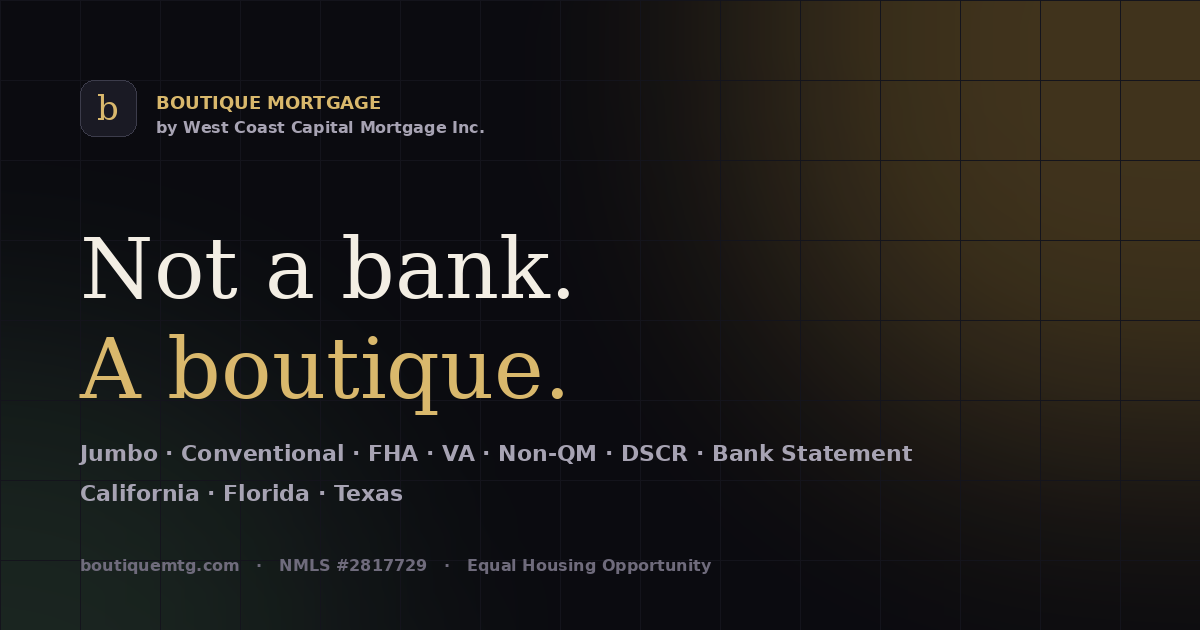
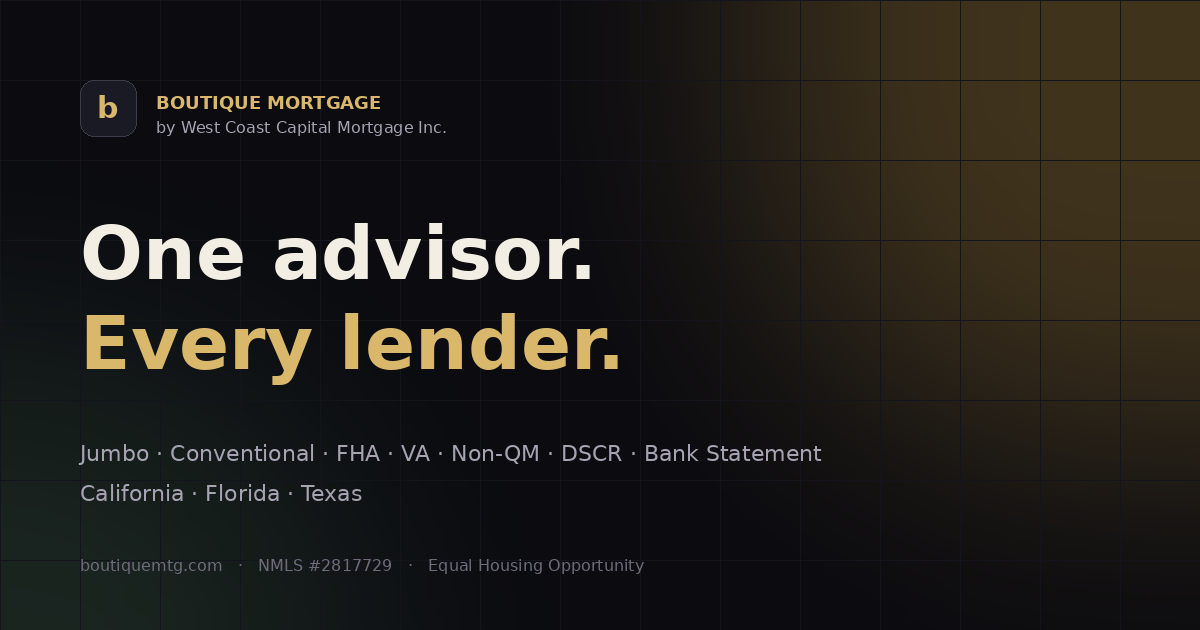
Switch display font to Syne and rewrite the hero headline
Replace the Fraunces serif (and all italic accents) with Syne, a modern
wide grotesk, and retune heading sizes for its width. The hero now reads
"One advisor. Every lender. Your mortgage, done right." in EN/ES/RU/ZH;
the social preview image is regenerated to match.

Claude-Session: https://claude.ai/code/session_01L62Hdud4DiPBRZaCxTW3rs

diff --git a/assets/css/styles.css b/assets/css/styles.css
@@ -18,7 +18,7 @@
   --sage: #9fb8a4;
   --danger: #e07a6a;
 
-  --font-display: "Fraunces", "Iowan Old Style", "Palatino Linotype", Georgia, serif;
+  --font-display: "Syne", "Manrope", system-ui, sans-serif;
   --font-body: "Manrope", "Inter", system-ui, -apple-system, "Segoe UI", sans-serif;
 
   --radius: 20px;
@@ -43,7 +43,7 @@ body {
 img, svg { display: block; max-width: 100%; }
 a { color: inherit; text-decoration: none; }
 button { font: inherit; color: inherit; }
-h1, h2, h3, h4 { margin: 0; font-family: var(--font-display); font-weight: 400; line-height: 1.05; letter-spacing: -0.015em; }
+h1, h2, h3, h4 { margin: 0; font-family: var(--font-display); font-weight: 700; line-height: 1.04; letter-spacing: -0.02em; }
 p { margin: 0; }
 ul { margin: 0; padding: 0; list-style: none; }
 ::selection { background: var(--gold); color: var(--ink); }
@@ -77,11 +77,11 @@ body.has-pointer .cursor-glow { opacity: 1; }
 
 .section { padding: clamp(80px, 11vw, 150px) 0; position: relative; }
 .section-head { max-width: 760px; margin-bottom: clamp(40px, 6vw, 72px); }
-.section-head h2 { font-size: clamp(36px, 5vw, 64px); margin-top: 18px; }
+.section-head h2 { font-size: clamp(30px, 4vw, 54px); margin-top: 18px; }
 .section-head p { margin-top: 20px; color: var(--muted); font-size: clamp(17px, 1.4vw, 20px); max-width: 60ch; }
 .section-head.center { margin-inline: auto; text-align: center; }
 .section-head.center p { margin-inline: auto; }
-em.accent { font-style: italic; color: var(--gold-2); font-variation-settings: "opsz" 144, "SOFT" 60; }
+em.accent { font-style: normal; color: var(--gold-2); }
 
 /* ---------- buttons ---------- */
 .btn {
@@ -117,7 +117,7 @@ em.accent { font-style: italic; color: var(--gold-2); font-variation-settings: "
 }
 .nav.scrolled { background: rgba(11, 11, 16, 0.72); backdrop-filter: blur(18px) saturate(140%); -webkit-backdrop-filter: blur(18px) saturate(140%); border-color: var(--line); }
 .nav-inner { display: flex; align-items: center; justify-content: space-between; gap: 24px; height: 76px; }
-.brand { display: inline-flex; align-items: center; gap: 12px; font-family: var(--font-display); font-size: 22px; letter-spacing: 0.01em; }
+.brand { display: inline-flex; align-items: center; gap: 12px; font-family: var(--font-display); font-size: 20px; font-weight: 800; letter-spacing: -0.01em; }
 .brand .mark { width: 36px; height: 36px; border-radius: 10px; background: var(--ink-3); display: grid; place-items: center; border: 1px solid var(--line-strong); }
 .brand .mark svg { width: 20px; height: 20px; }
 .brand small { display: block; font-family: var(--font-body); font-size: 10px; letter-spacing: 0.22em; text-transform: uppercase; color: var(--muted); font-weight: 700; margin-top: 2px; }
@@ -141,7 +141,7 @@ em.accent { font-style: italic; color: var(--gold-2); font-variation-settings: "
   opacity: 0; visibility: hidden; transition: opacity 0.4s var(--ease), visibility 0.4s;
 }
 .mobile-menu.open { opacity: 1; visibility: visible; }
-.mobile-menu a { font-family: var(--font-display); font-size: clamp(32px, 9vw, 44px); padding: 8px 0; transform: translateY(14px); opacity: 0; transition: transform 0.6s var(--ease), opacity 0.6s; }
+.mobile-menu a { font-family: var(--font-display); font-size: clamp(28px, 8vw, 40px); font-weight: 700; padding: 8px 0; transform: translateY(14px); opacity: 0; transition: transform 0.6s var(--ease), opacity 0.6s; }
 .mobile-menu.open a { transform: none; opacity: 1; }
 .mobile-menu a:nth-child(2) { transition-delay: 0.05s } .mobile-menu a:nth-child(3) { transition-delay: 0.1s } .mobile-menu a:nth-child(4) { transition-delay: 0.15s } .mobile-menu a:nth-child(5) { transition-delay: 0.2s } .mobile-menu a:nth-child(6) { transition-delay: 0.25s }
 .mobile-menu .btn { margin-top: 24px; font-family: var(--font-body); font-size: 15px; }
@@ -162,7 +162,7 @@ em.accent { font-style: italic; color: var(--gold-2); font-variation-settings: "
   -webkit-mask-image: radial-gradient(ellipse at 50% 40%, #000 20%, transparent 70%);
 }
 .hero-inner { display: grid; grid-template-columns: 1.15fr 0.85fr; gap: clamp(40px, 6vw, 90px); align-items: center; }
-.hero h1 { font-size: clamp(46px, 7vw, 104px); margin-top: 26px; font-variation-settings: "opsz" 144; }
+.hero h1 { font-size: clamp(34px, 4.5vw, 66px); margin-top: 26px; font-weight: 700; letter-spacing: -0.025em; line-height: 1.04; }
 .hero h1 .line { display: block; overflow: hidden; }
 .hero h1 .line > span { display: inline-block; transform: translateY(110%); animation: rise 1.2s var(--ease) forwards; }
 .hero h1 .line:nth-child(2) > span { animation-delay: 0.12s; }
@@ -197,7 +197,7 @@ em.accent { font-style: italic; color: var(--gold-2); font-variation-settings: "
 .scard.pos-out { opacity: 0; z-index: 0; transform: translate(calc(-50% - 40px), calc(-50% - 60px)) scale(1.04) rotate(-4deg); }
 .scard-top { display: flex; justify-content: space-between; align-items: center; font-size: 11px; letter-spacing: 0.2em; text-transform: uppercase; font-weight: 700; color: var(--gold); }
 .scard-top .pill { padding: 5px 10px; border-radius: 999px; background: rgba(217,184,108,0.14); color: var(--gold-2); letter-spacing: 0.08em; font-size: 11px; }
-.scard h3 { font-size: 30px; margin-top: 16px; }
+.scard h3 { font-size: 26px; margin-top: 16px; }
 .scard h3 small { display: block; font-family: var(--font-body); font-size: 14px; color: var(--muted); margin-top: 4px; letter-spacing: 0; }
 .scard dl { display: grid; grid-template-columns: 1fr 1fr; gap: 14px 18px; margin: 22px 0 0; }
 .scard dt { font-size: 11px; letter-spacing: 0.14em; text-transform: uppercase; color: var(--muted-2); font-weight: 700; }
@@ -213,7 +213,7 @@ em.accent { font-style: italic; color: var(--gold-2); font-variation-settings: "
 .marquee { border-block: 1px solid var(--line); padding: 20px 0; overflow: hidden; background: var(--ink-2); }
 .marquee-track { display: flex; gap: 0; width: max-content; animation: marquee 40s linear infinite; }
 .marquee:hover .marquee-track { animation-play-state: paused; }
-.marquee-track span { display: inline-flex; align-items: center; gap: 24px; padding-right: 24px; font-family: var(--font-display); font-size: 20px; color: var(--cream-2); white-space: nowrap; }
+.marquee-track span { display: inline-flex; align-items: center; gap: 24px; padding-right: 24px; font-family: var(--font-display); font-size: 17px; font-weight: 600; color: var(--cream-2); white-space: nowrap; }
 .marquee-track span::after { content: "✦"; color: var(--gold); font-size: 12px; }
 @keyframes marquee { to { transform: translateX(-50%); } }
 
@@ -235,7 +235,7 @@ em.accent { font-style: italic; color: var(--gold-2); font-variation-settings: "
 }
 .pillar:hover { border-color: var(--line-strong); transform: translateY(-4px); }
 .pillar:hover::before { opacity: 1; }
-.pillar .num { font-family: var(--font-display); font-size: 56px; line-height: 1; color: rgba(217,184,108,0.35); font-style: italic; }
+.pillar .num { font-family: var(--font-display); font-size: 52px; line-height: 1; color: rgba(217,184,108,0.35); font-weight: 800; }
 .pillar h3 { font-size: 28px; margin-top: 22px; }
 .pillar p { margin-top: 14px; color: var(--muted); font-size: 16px; }
 
@@ -266,7 +266,7 @@ em.accent { font-style: italic; color: var(--gold-2); font-variation-settings: "
 .steps { display: grid; grid-template-columns: repeat(4, 1fr); gap: 0; position: relative; counter-reset: step; }
 .steps::before { content: ""; position: absolute; left: 0; right: 0; top: 24px; height: 1px; background: linear-gradient(90deg, transparent, var(--line-strong) 10%, var(--line-strong) 90%, transparent); }
 .step { position: relative; padding: 0 28px 0 0; }
-.step .dot { width: 48px; height: 48px; border-radius: 50%; border: 1px solid var(--line-strong); background: var(--ink); display: grid; place-items: center; font-family: var(--font-display); font-size: 18px; color: var(--gold); position: relative; z-index: 1; transition: background 0.4s, color 0.4s, transform 0.5s var(--ease); }
+.step .dot { width: 48px; height: 48px; border-radius: 50%; border: 1px solid var(--line-strong); background: var(--ink); display: grid; place-items: center; font-family: var(--font-display); font-weight: 700; font-size: 16px; color: var(--gold); position: relative; z-index: 1; transition: background 0.4s, color 0.4s, transform 0.5s var(--ease); }
 .step:hover .dot { background: var(--gold); color: var(--ink); transform: scale(1.08); }
 .step h3 { font-size: 26px; margin-top: 26px; }
 .step p { margin-top: 12px; color: var(--muted); font-size: 15px; }
@@ -274,7 +274,7 @@ em.accent { font-style: italic; color: var(--gold-2); font-variation-settings: "
 
 /* ---------- stats ---------- */
 .stats { display: grid; grid-template-columns: repeat(4, 1fr); gap: 20px; margin-top: clamp(60px, 8vw, 100px); padding-top: clamp(40px, 5vw, 60px); border-top: 1px solid var(--line); }
-.stat b { display: block; font-family: var(--font-display); font-size: clamp(40px, 5vw, 64px); line-height: 1; font-weight: 300; }
+.stat b { display: block; font-family: var(--font-display); font-size: clamp(40px, 5vw, 60px); line-height: 1; font-weight: 600; }
 .stat b sup { font-size: 0.4em; color: var(--gold); vertical-align: top; margin-left: 2px; }
 .stat span { display: block; margin-top: 10px; font-size: 14px; color: var(--muted); }
 
@@ -282,7 +282,7 @@ em.accent { font-style: italic; color: var(--gold-2); font-variation-settings: "
 .estimator { display: grid; grid-template-columns: 1fr 1fr; gap: 24px; border-radius: 28px; overflow: hidden; border: 1px solid rgba(11,11,16,0.1); background: #fff; }
 .est-form { padding: clamp(28px, 4vw, 48px); display: grid; gap: 22px; }
 .field label { display: flex; justify-content: space-between; align-items: baseline; font-size: 13px; font-weight: 700; letter-spacing: 0.06em; text-transform: uppercase; color: #5a5664; }
-.field label output { font-family: var(--font-display); font-size: 22px; color: var(--ink); text-transform: none; letter-spacing: 0; }
+.field label output { font-family: var(--font-display); font-size: 20px; font-weight: 700; color: var(--ink); text-transform: none; letter-spacing: 0; }
 .field input[type="range"] { -webkit-appearance: none; appearance: none; width: 100%; height: 4px; margin: 14px 0 0; border-radius: 2px; background: linear-gradient(90deg, var(--gold-deep) var(--p, 50%), #e5e0d4 var(--p, 50%)); outline: none; }
 .field input[type="range"]::-webkit-slider-thumb { -webkit-appearance: none; width: 22px; height: 22px; border-radius: 50%; background: var(--ink); border: 3px solid #fff; box-shadow: 0 2px 10px rgba(0,0,0,0.25); cursor: grab; transition: transform 0.2s; }
 .field input[type="range"]::-webkit-slider-thumb:hover { transform: scale(1.1); }
@@ -297,7 +297,7 @@ em.accent { font-style: italic; color: var(--gold-2); font-variation-settings: "
 .est-result { background: var(--ink); color: var(--cream); padding: clamp(28px, 4vw, 48px); display: flex; flex-direction: column; justify-content: space-between; position: relative; overflow: hidden; }
 .est-result::before { content: ""; position: absolute; width: 420px; height: 420px; right: -160px; top: -160px; border-radius: 50%; background: radial-gradient(circle, rgba(217,184,108,0.25), transparent 70%); }
 .est-main small { font-size: 12px; letter-spacing: 0.2em; text-transform: uppercase; color: var(--gold); font-weight: 700; }
-.est-main .big { font-family: var(--font-display); font-size: clamp(52px, 6vw, 88px); line-height: 1; margin-top: 12px; font-weight: 300; font-variant-numeric: tabular-nums; }
+.est-main .big { font-family: var(--font-display); font-size: clamp(48px, 5.4vw, 76px); line-height: 1; margin-top: 12px; font-weight: 700; font-variant-numeric: tabular-nums; }
 .est-main .big span { font-size: 0.35em; color: var(--muted); font-family: var(--font-body); font-weight: 600; margin-left: 6px; }
 .est-break { margin-top: 30px; display: grid; gap: 12px; }
 .est-break div { display: flex; justify-content: space-between; font-size: 15px; padding-bottom: 12px; border-bottom: 1px solid var(--line); color: var(--muted); }
@@ -314,7 +314,7 @@ em.accent { font-style: italic; color: var(--gold-2); font-variation-settings: "
 .markets { display: grid; grid-template-columns: repeat(3, 1fr); gap: 18px; }
 .market { padding: 32px 30px; border-radius: var(--radius); border: 1px solid var(--line); background: var(--ink-2); position: relative; overflow: hidden; transition: transform 0.6s var(--ease), border-color 0.4s; }
 .market:hover { transform: translateY(-4px); border-color: var(--line-strong); }
-.market .abbr { font-family: var(--font-display); font-size: 72px; line-height: 0.9; color: rgba(217,184,108,0.18); position: absolute; right: 20px; top: 14px; font-style: italic; }
+.market .abbr { font-family: var(--font-display); font-size: 72px; line-height: 0.9; color: rgba(217,184,108,0.18); position: absolute; right: 20px; top: 14px; font-weight: 800; }
 .market h3 { font-size: 28px; }
 .market p { margin-top: 12px; color: var(--muted); font-size: 15px; }
 .market ul { margin-top: 18px; display: flex; flex-wrap: wrap; gap: 8px; }
@@ -323,14 +323,14 @@ em.accent { font-style: italic; color: var(--gold-2); font-variation-settings: "
 /* ---------- founder ---------- */
 .founder { display: grid; grid-template-columns: 0.9fr 1.1fr; gap: clamp(40px, 6vw, 90px); align-items: center; }
 .founder-visual { position: relative; aspect-ratio: 4 / 5; border-radius: 28px; overflow: hidden; background: linear-gradient(160deg, #1b1a26, #0e0e14); border: 1px solid var(--line); display: grid; place-items: center; }
-.founder-visual .initials { font-family: var(--font-display); font-size: clamp(120px, 18vw, 220px); line-height: 1; color: transparent; -webkit-text-stroke: 1px rgba(217,184,108,0.6); font-style: italic; }
+.founder-visual .initials { font-family: var(--font-display); font-size: clamp(120px, 18vw, 220px); line-height: 1; color: transparent; -webkit-text-stroke: 1px rgba(217,184,108,0.6); font-weight: 800; }
 .founder-visual .ring { position: absolute; inset: 14%; border-radius: 50%; border: 1px solid rgba(217,184,108,0.25); animation: spin 40s linear infinite; }
 .founder-visual .ring::after { content: ""; position: absolute; width: 10px; height: 10px; border-radius: 50%; background: var(--gold); left: 50%; top: -5px; transform: translateX(-50%); box-shadow: 0 0 20px var(--gold); }
 @keyframes spin { to { transform: rotate(360deg); } }
 .founder-visual .badge { position: absolute; left: 20px; bottom: 20px; right: 20px; padding: 16px 18px; border-radius: 16px; background: rgba(11,11,16,0.7); backdrop-filter: blur(10px); border: 1px solid var(--line-strong); font-size: 13px; color: var(--muted); display: flex; justify-content: space-between; gap: 12px; align-items: center; }
 .founder-visual .badge b { color: var(--cream); display: block; font-size: 15px; }
 .founder-visual .badge .stars { color: var(--gold); letter-spacing: 2px; white-space: nowrap; }
-.founder h2 { font-size: clamp(34px, 4.6vw, 58px); margin-top: 18px; }
+.founder h2 { font-size: clamp(28px, 3.6vw, 48px); margin-top: 18px; }
 .founder .lead { margin-top: 22px; font-size: 18px; color: var(--cream-2); }
 .founder p + p { margin-top: 16px; color: var(--muted); }
 .founder .creds { margin-top: 28px; display: grid; grid-template-columns: 1fr 1fr; gap: 14px; }
@@ -340,7 +340,7 @@ em.accent { font-style: italic; color: var(--gold-2); font-variation-settings: "
 
 /* ---------- contact ---------- */
 .contact { display: grid; grid-template-columns: 0.9fr 1.1fr; gap: clamp(40px, 6vw, 90px); }
-.contact h2 { font-size: clamp(38px, 5.5vw, 72px); margin-top: 18px; }
+.contact h2 { font-size: clamp(30px, 4vw, 54px); margin-top: 18px; }
 .contact .intro { margin-top: 22px; color: var(--muted); font-size: 18px; max-width: 46ch; }
 .contact-cards { margin-top: 36px; display: grid; gap: 12px; }
 .ccard { display: flex; justify-content: space-between; align-items: center; gap: 16px; padding: 18px 20px; border-radius: 16px; border: 1px solid var(--line); background: var(--ink-2); transition: border-color 0.3s, transform 0.5s var(--ease); }
@@ -401,7 +401,7 @@ em.accent { font-style: italic; color: var(--gold-2); font-variation-settings: "
 .page a { color: var(--gold-2); text-decoration: underline; text-underline-offset: 3px; }
 .page .lead { font-size: 20px; color: var(--cream-2); margin-top: 24px; }
 .center-page { min-height: 100svh; display: grid; place-items: center; text-align: center; padding: 120px var(--gutter); }
-.center-page h1 { font-size: clamp(60px, 14vw, 160px); line-height: 0.9; font-style: italic; color: transparent; -webkit-text-stroke: 1px var(--gold); }
+.center-page h1 { font-size: clamp(60px, 14vw, 160px); line-height: 0.9; font-weight: 800; color: transparent; -webkit-text-stroke: 1px var(--gold); }
 .center-page p { margin-top: 24px; color: var(--muted); font-size: 18px; }
 
 /* ---------- responsive ---------- */
@@ -467,7 +467,7 @@ em.accent { font-style: italic; color: var(--gold-2); font-variation-settings: "
 .rate-card { padding: 22px 22px 20px; border-radius: 18px; border: 1px solid var(--line); background: linear-gradient(180deg, rgba(255,255,255,0.05), rgba(255,255,255,0.015)); position: relative; overflow: hidden; transition: transform 0.5s var(--ease), border-color 0.3s; }
 .rate-card:hover { transform: translateY(-3px); border-color: var(--line-strong); }
 .rate-card small { display: block; font-size: 12px; letter-spacing: 0.1em; text-transform: uppercase; color: var(--muted); font-weight: 700; min-height: 2.6em; }
-.rate-card b { display: block; font-family: var(--font-display); font-size: 44px; font-weight: 300; line-height: 1; margin-top: 10px; font-variant-numeric: tabular-nums; }
+.rate-card b { display: block; font-family: var(--font-display); font-size: 38px; font-weight: 700; line-height: 1; margin-top: 10px; font-variant-numeric: tabular-nums; }
 .rate-card b i { font-style: normal; font-size: 0.45em; color: var(--gold); margin-left: 2px; }
 .rate-card .use { margin-top: 12px; font-size: 12px; color: var(--muted-2); }
 .rate-card button { margin-top: 12px; background: none; border: 0; padding: 0; color: var(--gold-2); font-size: 12px; font-weight: 700; cursor: pointer; letter-spacing: 0.04em; }
@@ -492,7 +492,7 @@ em.accent { font-style: italic; color: var(--gold-2); font-variation-settings: "
 
 /* concierge */
 .concierge-grid { display: grid; grid-template-columns: 0.95fr 1.05fr; gap: clamp(36px, 6vw, 80px); align-items: start; }
-.concierge-grid h2 { font-size: clamp(34px, 4.6vw, 58px); margin-top: 18px; }
+.concierge-grid h2 { font-size: clamp(28px, 3.6vw, 48px); margin-top: 18px; }
 .concierge-lead { margin-top: 22px; color: var(--muted); font-size: 18px; }
 .concierge-points { margin-top: 22px; display: grid; gap: 10px; }
 .concierge-points li { padding-left: 26px; position: relative; color: var(--cream-2); font-size: 15px; }
@@ -505,7 +505,7 @@ em.accent { font-style: italic; color: var(--gold-2); font-variation-settings: "
 .chat-head { display: flex; align-items: center; gap: 14px; padding: 18px 20px; border-bottom: 1px solid var(--line); }
 .chat-head b { display: block; font-size: 15px; }
 .chat-head small { display: block; font-size: 12px; color: var(--muted); margin-top: 2px; }
-.chat-avatar { width: 40px; height: 40px; border-radius: 12px; background: var(--gold); color: var(--ink); display: grid; place-items: center; font-family: var(--font-display); font-size: 20px; font-style: italic; }
+.chat-avatar { width: 40px; height: 40px; border-radius: 12px; background: var(--gold); color: var(--ink); display: grid; place-items: center; font-family: var(--font-display); font-size: 18px; font-weight: 800; }
 .chat-badge { margin-left: auto; font-size: 11px; letter-spacing: 0.1em; text-transform: uppercase; color: var(--muted-2); font-weight: 700; border: 1px solid var(--line); padding: 5px 9px; border-radius: 999px; }
 .chat-log { flex: 1; padding: 20px; overflow-y: auto; display: flex; flex-direction: column; gap: 12px; max-height: 480px; scroll-behavior: smooth; }
 .msg { max-width: 86%; padding: 13px 16px; border-radius: 16px; font-size: 15px; line-height: 1.55; white-space: pre-wrap; word-wrap: break-word; animation: msgIn 0.4s var(--ease); }
@@ -527,7 +527,7 @@ em.accent { font-style: italic; color: var(--gold-2); font-variation-settings: "
 .chat-foot { padding: 0 20px 14px; font-size: 11px; color: var(--muted-2); }
 
 .chat-fab { position: fixed; right: 20px; bottom: 20px; z-index: 45; display: inline-flex; align-items: center; gap: 10px; padding: 8px 16px 8px 8px; border-radius: 999px; border: 1px solid var(--line-strong); background: rgba(18,18,26,0.9); backdrop-filter: blur(12px); color: var(--cream); cursor: pointer; box-shadow: 0 20px 50px -20px rgba(0,0,0,0.8); transition: transform 0.4s var(--ease), opacity 0.4s; }
-.chat-fab span { width: 36px; height: 36px; border-radius: 50%; background: var(--gold); color: var(--ink); display: grid; place-items: center; font-family: var(--font-display); font-style: italic; font-size: 18px; }
+.chat-fab span { width: 36px; height: 36px; border-radius: 50%; background: var(--gold); color: var(--ink); display: grid; place-items: center; font-family: var(--font-display); font-weight: 800; font-size: 16px; }
 .chat-fab em { font-style: normal; font-size: 13px; font-weight: 700; }
 .chat-fab:hover { transform: translateY(-2px); }
 .chat-fab.hide { opacity: 0; pointer-events: none; transform: translateY(10px); }
@@ -547,7 +547,7 @@ em.accent { font-style: italic; color: var(--gold-2); font-variation-settings: "
 /* consent banner */
 .consent-banner { position: fixed; left: 20px; right: 20px; bottom: 20px; z-index: 70; margin-inline: auto; max-width: 820px; display: flex; gap: 20px; align-items: center; justify-content: space-between; flex-wrap: wrap; padding: 18px 22px; border-radius: 18px; border: 1px solid var(--line-strong); background: rgba(18,18,26,0.95); backdrop-filter: blur(16px); box-shadow: 0 30px 80px -30px rgba(0,0,0,0.9); transform: translateY(20px); opacity: 0; transition: transform 0.5s var(--ease), opacity 0.5s; }
 .consent-banner.show { transform: none; opacity: 1; }
-.consent-banner b { display: block; font-family: var(--font-display); font-size: 20px; }
+.consent-banner b { display: block; font-family: var(--font-display); font-size: 17px; font-weight: 700; }
 .consent-banner p { font-size: 13px; color: var(--muted); margin-top: 4px; max-width: 54ch; }
 .consent-banner p a { color: var(--gold-2); }
 .consent-actions { display: flex; gap: 8px; flex-wrap: wrap; }

diff --git a/index.html b/index.html
@@ -9,7 +9,7 @@
 <meta name="theme-color" content="#0b0b10">
 <meta property="og:type" content="website">
 <meta property="og:site_name" content="Boutique Mortgage">
-<meta property="og:title" content="Boutique Mortgage — a private-client mortgage experience">
+<meta property="og:title" content="Boutique Mortgage — one advisor, every lender">
 <meta property="og:description" content="One advisor. Structure before paperwork. Access to a wide lender marketplace. West Coast Capital Mortgage Inc. · NMLS #2817729 · CA · FL · TX.">
 <meta property="og:url" content="https://boutiquemtg.com/">
 <meta property="og:image" content="https://boutiquemtg.com/assets/img/og-image.png">
@@ -20,7 +20,7 @@
 <link rel="icon" href="/assets/favicon.svg" type="image/svg+xml">
 <link rel="preconnect" href="https://fonts.googleapis.com">
 <link rel="preconnect" href="https://fonts.gstatic.com" crossorigin>
-<link href="https://fonts.googleapis.com/css2?family=Fraunces:ital,opsz,wght@0,9..144,300;0,9..144,400;0,9..144,500;1,9..144,300;1,9..144,400&family=Manrope:wght@400;500;600;700;800&display=swap" rel="stylesheet">
+<link href="https://fonts.googleapis.com/css2?family=Syne:wght@500;600;700;800&family=Manrope:wght@400;500;600;700;800&display=swap" rel="stylesheet">
 <link rel="stylesheet" href="/assets/css/styles.css?v=1">
 <script>
 /* Runtime configuration — public values only. Secrets live in Netlify env vars. */
@@ -118,9 +118,9 @@ window.BQ_CONFIG = {
     <div>
       <p class="eyebrow fade-up">Private-client mortgage · CA · FL · TX</p>
       <h1>
-        <span class="line"><span>Not a bank.</span></span>
-        <span class="line"><span>A <em class="accent">boutique</em>.</span></span>
-        <span class="line"><span>Mortgage, tailored.</span></span>
+        <span class="line"><span>One advisor.</span></span>
+        <span class="line"><span><em class="accent">Every lender.</em></span></span>
+        <span class="line"><span>Your mortgage, done right.</span></span>
       </h1>
       <p class="hero-sub fade-up d1">One advisor from the first conversation to the keys. We structure the loan before the paperwork, then shop it across a wide lender marketplace — jumbo, conventional, FHA, VA, Non-QM, DSCR and bank-statement programs.</p>
       <div class="hero-actions fade-up d2">

diff --git a/assets/js/i18n.js b/assets/js/i18n.js
@@ -20,10 +20,9 @@
     "Skip to content": { es: "Saltar al contenido", ru: "К содержанию", zh: "跳到内容" },
     /* hero */
     "Private-client mortgage · CA · FL · TX": { es: "Hipotecas de cliente privado · CA · FL · TX", ru: "Ипотека для частных клиентов · CA · FL · TX", zh: "私人客户房贷 · CA · FL · TX" },
-    "Not a bank.": { es: "No somos un banco.", ru: "Не банк.", zh: "不是银行。" },
-    "A": { es: "Una", ru: "Просто", zh: "而是" },
-    "boutique": { es: "boutique", ru: "бутик", zh: "精品工作室" },
-    "Mortgage, tailored.": { es: "Hipotecas a medida.", ru: "Ипотека по мерке.", zh: "量身定制的房贷。" },
+    "One advisor.": { es: "Un solo asesor.", ru: "Один советник.", zh: "一位顾问。" },
+    "Every lender.": { es: "Todos los prestamistas.", ru: "Все кредиторы.", zh: "全市场贷款机构。" },
+    "Your mortgage, done right.": { es: "Tu hipoteca, bien hecha.", ru: "Ваша ипотека — как надо.", zh: "您的房贷，办得妥当。" },
     "One advisor from the first conversation to the keys. We structure the loan before the paperwork, then shop it across a wide lender marketplace — jumbo, conventional, FHA, VA, Non-QM, DSCR and bank-statement programs.":
       { es: "Un solo asesor desde la primera conversación hasta las llaves. Estructuramos el préstamo antes del papeleo y lo cotizamos en un amplio mercado de prestamistas: jumbo, convencional, FHA, VA, Non-QM, DSCR y programas con estados de cuenta.",
         ru: "Один советник — от первого разговора до ключей. Сначала выстраиваем структуру кредита, потом подбираем кредитора на широком рынке: jumbo, conventional, FHA, VA, Non-QM, DSCR и программы по банковским выпискам.",

diff --git a/404.html b/404.html
@@ -10,7 +10,7 @@
 <meta name="theme-color" content="#0b0b10">
 <link rel="icon" href="/assets/favicon.svg" type="image/svg+xml">
 <link rel="preconnect" href="https://fonts.googleapis.com"><link rel="preconnect" href="https://fonts.gstatic.com" crossorigin>
-<link href="https://fonts.googleapis.com/css2?family=Fraunces:ital,opsz,wght@0,9..144,300;0,9..144,400;1,9..144,300&family=Manrope:wght@400;500;600;700;800&display=swap" rel="stylesheet">
+<link href="https://fonts.googleapis.com/css2?family=Syne:wght@500;600;700;800&family=Manrope:wght@400;500;600;700;800&display=swap" rel="stylesheet">
 <link rel="stylesheet" href="/assets/css/styles.css?v=1">
 <script>window.BQ_CONFIG={SITE:"boutiquemtg.com",GTM_ID:"GTM-K2X3X454",GA4_ID:"G-GB57YWMKBH",ADS_ID:"AW-18417657219",ADS_LEAD_DESTINATION:"AW-18417657219/LiA7CPWd4eocEIPLnM5E",CLARITY_ID:"wzzlo9s35g"};</script>
 </head>

diff --git a/disclosures.html b/disclosures.html
@@ -10,7 +10,7 @@
 <meta name="theme-color" content="#0b0b10">
 <link rel="icon" href="/assets/favicon.svg" type="image/svg+xml">
 <link rel="preconnect" href="https://fonts.googleapis.com"><link rel="preconnect" href="https://fonts.gstatic.com" crossorigin>
-<link href="https://fonts.googleapis.com/css2?family=Fraunces:ital,opsz,wght@0,9..144,300;0,9..144,400;1,9..144,300&family=Manrope:wght@400;500;600;700;800&display=swap" rel="stylesheet">
+<link href="https://fonts.googleapis.com/css2?family=Syne:wght@500;600;700;800&family=Manrope:wght@400;500;600;700;800&display=swap" rel="stylesheet">
 <link rel="stylesheet" href="/assets/css/styles.css?v=1">
 <script>window.BQ_CONFIG={SITE:"boutiquemtg.com",GTM_ID:"GTM-K2X3X454",GA4_ID:"G-GB57YWMKBH",ADS_ID:"AW-18417657219",ADS_LEAD_DESTINATION:"AW-18417657219/LiA7CPWd4eocEIPLnM5E",CLARITY_ID:"wzzlo9s35g"};</script>
 </head>

diff --git a/privacy.html b/privacy.html
@@ -10,7 +10,7 @@
 <meta name="theme-color" content="#0b0b10">
 <link rel="icon" href="/assets/favicon.svg" type="image/svg+xml">
 <link rel="preconnect" href="https://fonts.googleapis.com"><link rel="preconnect" href="https://fonts.gstatic.com" crossorigin>
-<link href="https://fonts.googleapis.com/css2?family=Fraunces:ital,opsz,wght@0,9..144,300;0,9..144,400;1,9..144,300&family=Manrope:wght@400;500;600;700;800&display=swap" rel="stylesheet">
+<link href="https://fonts.googleapis.com/css2?family=Syne:wght@500;600;700;800&family=Manrope:wght@400;500;600;700;800&display=swap" rel="stylesheet">
 <link rel="stylesheet" href="/assets/css/styles.css?v=1">
 <script>window.BQ_CONFIG={SITE:"boutiquemtg.com",GTM_ID:"GTM-K2X3X454",GA4_ID:"G-GB57YWMKBH",ADS_ID:"AW-18417657219",ADS_LEAD_DESTINATION:"AW-18417657219/LiA7CPWd4eocEIPLnM5E",CLARITY_ID:"wzzlo9s35g"};</script>
 </head>

diff --git a/studio.html b/studio.html
@@ -10,7 +10,7 @@
 <meta name="theme-color" content="#0b0b10">
 <link rel="icon" href="/assets/favicon.svg" type="image/svg+xml">
 <link rel="preconnect" href="https://fonts.googleapis.com"><link rel="preconnect" href="https://fonts.gstatic.com" crossorigin>
-<link href="https://fonts.googleapis.com/css2?family=Fraunces:ital,opsz,wght@0,9..144,300;0,9..144,400;1,9..144,300&family=Manrope:wght@400;500;600;700;800&display=swap" rel="stylesheet">
+<link href="https://fonts.googleapis.com/css2?family=Syne:wght@500;600;700;800&family=Manrope:wght@400;500;600;700;800&display=swap" rel="stylesheet">
 <link rel="stylesheet" href="/assets/css/styles.css?v=1">
 <script>window.BQ_CONFIG={SITE:"boutiquemtg.com",GTM_ID:"GTM-K2X3X454",GA4_ID:"G-GB57YWMKBH",ADS_ID:"AW-18417657219",ADS_LEAD_DESTINATION:"AW-18417657219/LiA7CPWd4eocEIPLnM5E",CLARITY_ID:"wzzlo9s35g"};</script>
 </head>

diff --git a/thanks.html b/thanks.html
@@ -10,7 +10,7 @@
 <meta name="theme-color" content="#0b0b10">
 <link rel="icon" href="/assets/favicon.svg" type="image/svg+xml">
 <link rel="preconnect" href="https://fonts.googleapis.com"><link rel="preconnect" href="https://fonts.gstatic.com" crossorigin>
-<link href="https://fonts.googleapis.com/css2?family=Fraunces:ital,opsz,wght@0,9..144,300;0,9..144,400;1,9..144,300&family=Manrope:wght@400;500;600;700;800&display=swap" rel="stylesheet">
+<link href="https://fonts.googleapis.com/css2?family=Syne:wght@500;600;700;800&family=Manrope:wght@400;500;600;700;800&display=swap" rel="stylesheet">
 <link rel="stylesheet" href="/assets/css/styles.css?v=1">
 <script>window.BQ_CONFIG={SITE:"boutiquemtg.com",GTM_ID:"GTM-K2X3X454",GA4_ID:"G-GB57YWMKBH",ADS_ID:"AW-18417657219",ADS_LEAD_DESTINATION:"AW-18417657219/LiA7CPWd4eocEIPLnM5E",CLARITY_ID:"wzzlo9s35g"};</script>
 </head>
